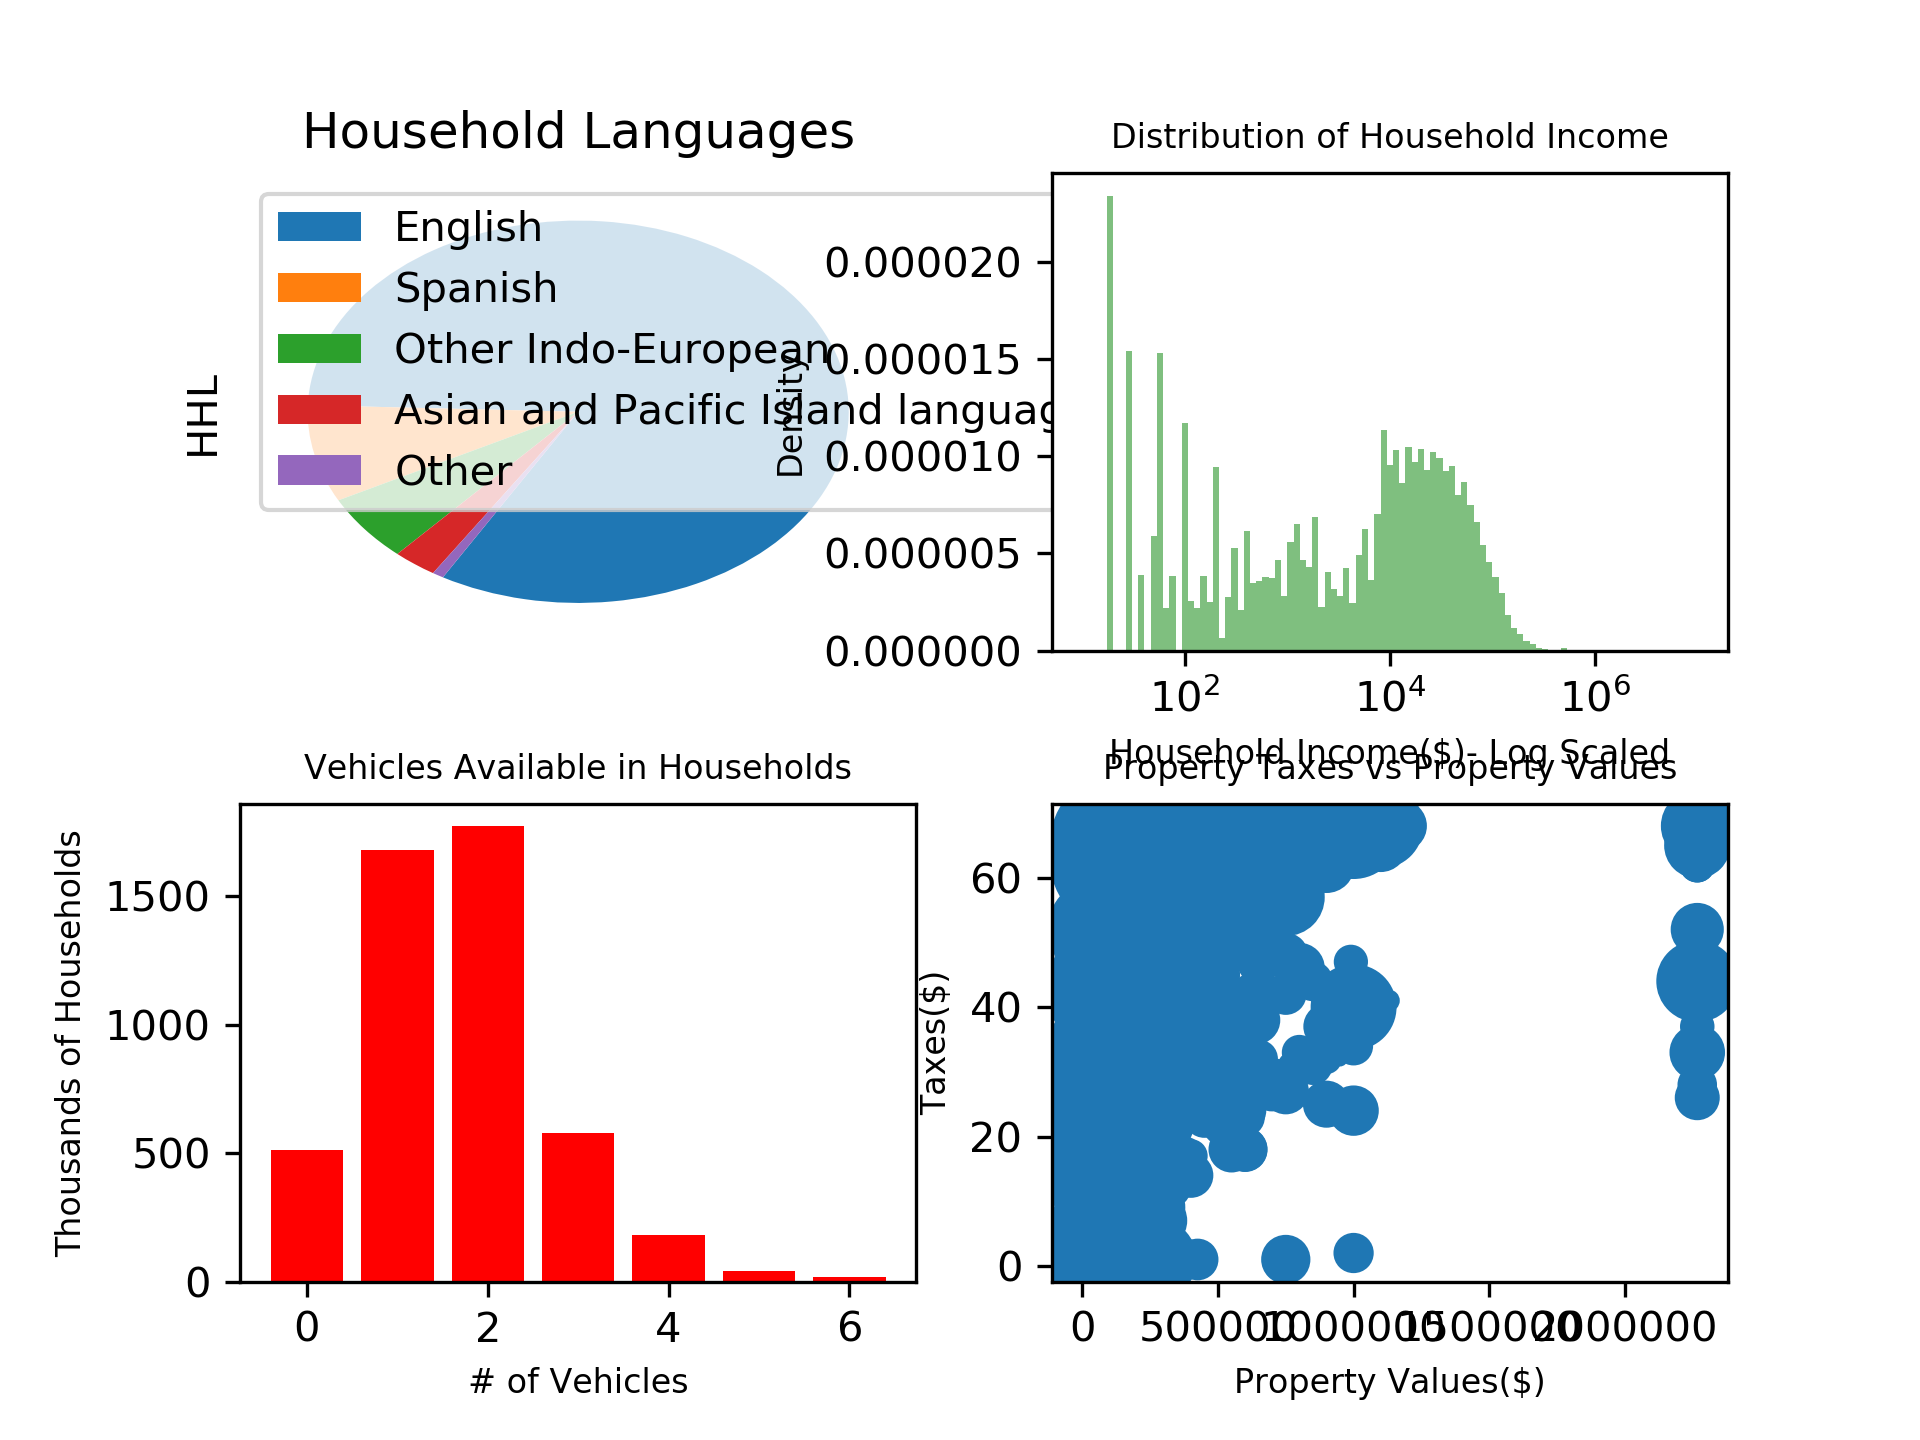
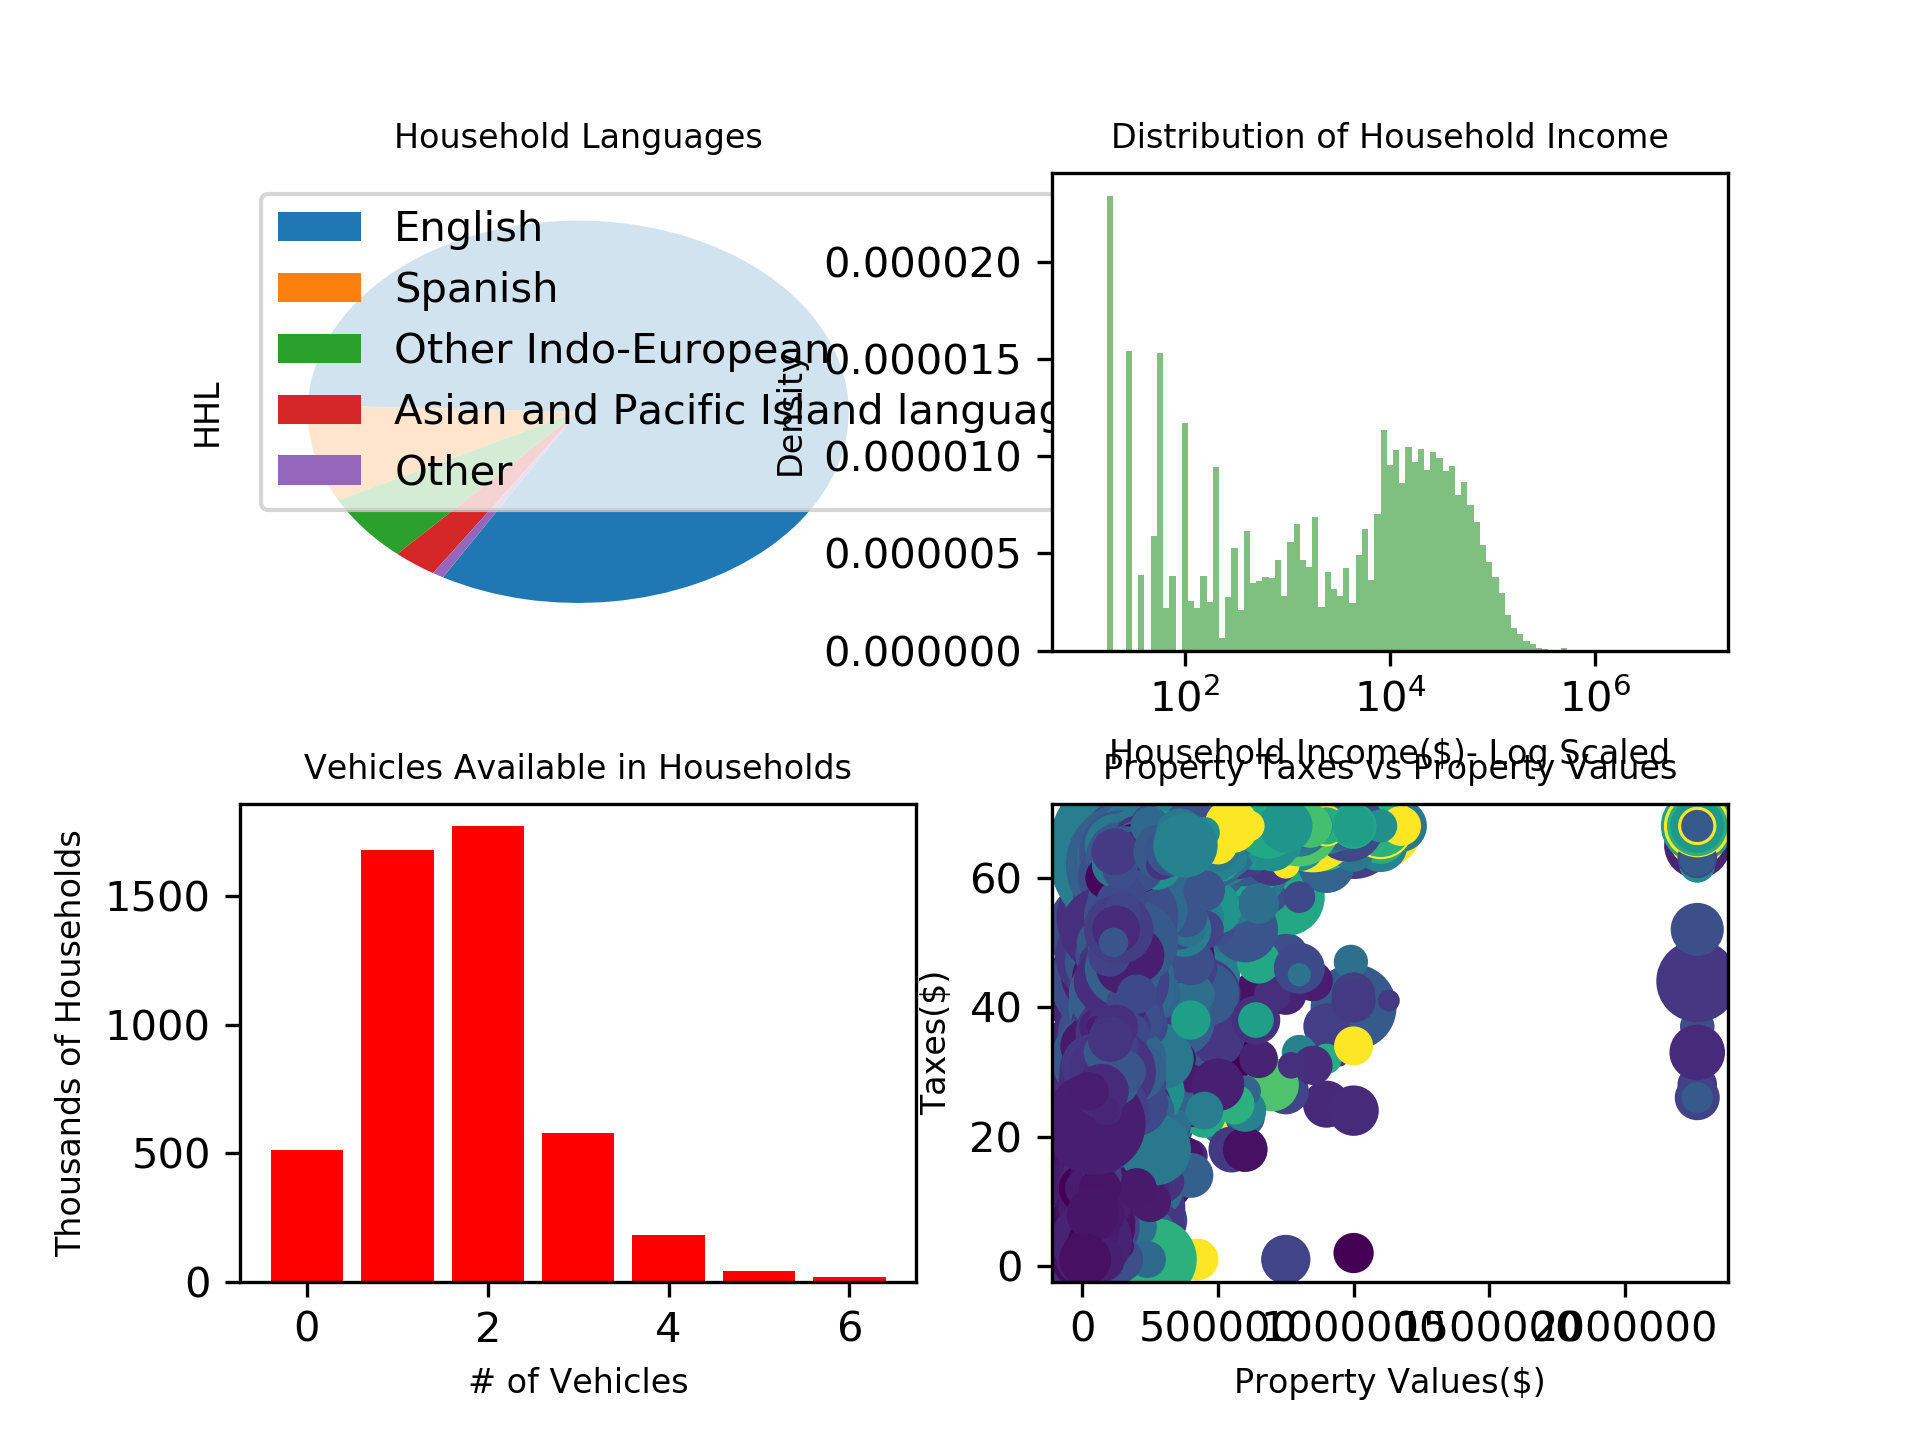
has colors based on MRGP

diff --git a/Assignment/vispums.py b/Assignment/vispums.py
@@ -24,10 +24,11 @@ fig.subplots_adjust(hspace=0.32)
 # Upper Left Subplot - Pie Chart contaning num of household records for the different values of HHL Column
 # TODO fix circle so not oblong
 pie_key=['English','Spanish','Other Indo-European','Asian and Pacific Island languages','Other']
-axs[0,0].set_title('Household Languages')
+axs[0,0].set_title('Household Languages', fontsize=8)
 axs[0,0].pie(pums_dataframe.HHL.value_counts().dropna(),startangle=240)
 axs[0,0].legend(pie_key,loc="upper left")
-axs[0,0].set(ylabel='HHL')
+axs[0,0].set_ylabel('HHL', fontsize=8)
+
 
 #  Upper Right Subplot - Histogram of HINCP Column with KDE plot superimposed
 # TODO KDE plot superimposed
@@ -72,7 +73,7 @@ pums_scatter = pums_dataframe[['TAXP','VALP','WGTP','MRGP']].dropna()
 # TODO Convert TAXP using interval
 
 # Graph Data
-axs[1,1].scatter(pums_scatter.VALP,pums_scatter.TAXP,marker='o',s=pums_scatter.WGTP)
+axs[1,1].scatter(pums_scatter.VALP,pums_scatter.TAXP,marker='o',s=pums_scatter.WGTP, c=pums_scatter.MRGP)
 
 # Save figure to file 'pums.png'
 plt.savefig('pums.png', dpi=300) 

diff --git a/Assignment/tempCodeRunnerFile.py b/Assignment/tempCodeRunnerFile.py
@@ -1,1 +1,1 @@
-,log=True
+axs[0,0].legend(pie_key,loc="upper left")
